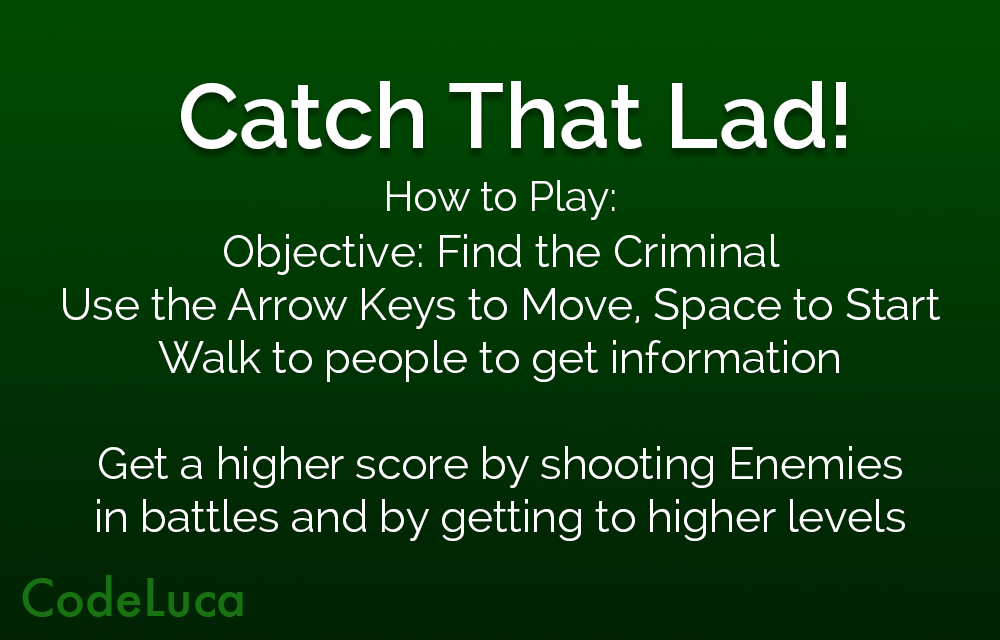
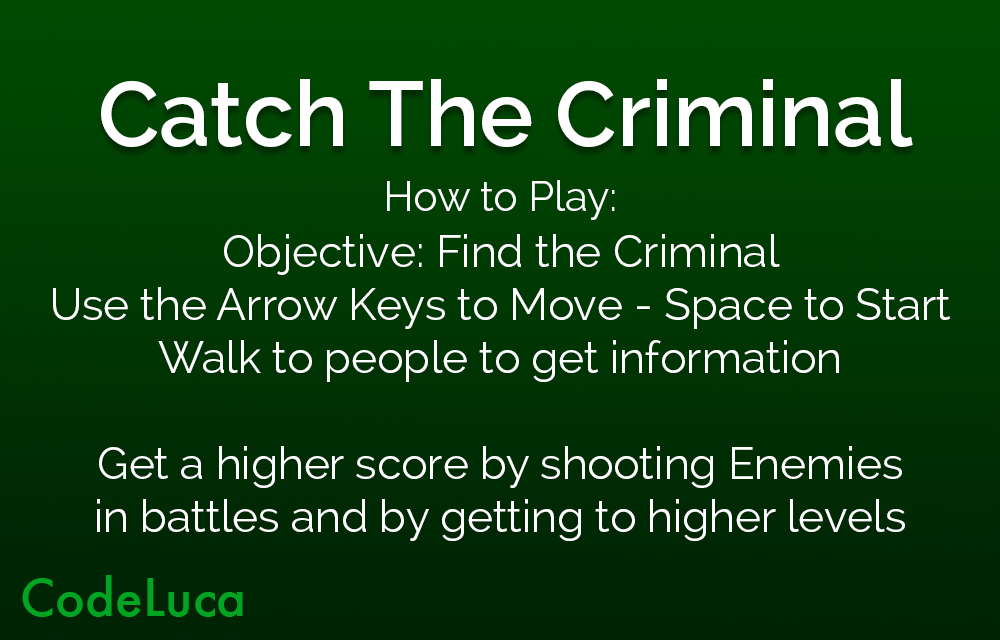
Final Commit?

Changed region(s): [[0.093, 0.125, 0.93, 0.25], [0.031, 0.4375, 0.961, 0.5312], [0.0, 0.9062, 0.248, 0.9688]]

diff --git a/main.js b/main.js
@@ -101,8 +101,8 @@ var criminalFight, playerFight;
     },
 
     hitPerson: function(p, guy){
-        var chance = Math.floor((Math.random() * level) + 1);
         score -= 5;
+        var chance = Math.floor((Math.random() * level) + 1);
         if (chance == 1){
             var which = Math.floor((Math.random() * 3) + 1);
             if (which == 1){if(!(this.skin.text == "Skin Colour: " + criminalSkin)){ this.skin.text += criminalSkin; this.skin.fill = criminalSkin;}}

diff --git a/index.html b/index.html
@@ -3,7 +3,7 @@
 
 <head>  
     <meta charset="utf-8" />
-    <title> Catch The Culprit </title>
+    <title> Catch The Criminal </title>
     <script src="phaser.min.js"></script>
     <link href='http://fonts.googleapis.com/css?family=Raleway:800' rel='stylesheet' type='text/css'></head>
 <body bgcolor="#494949">
